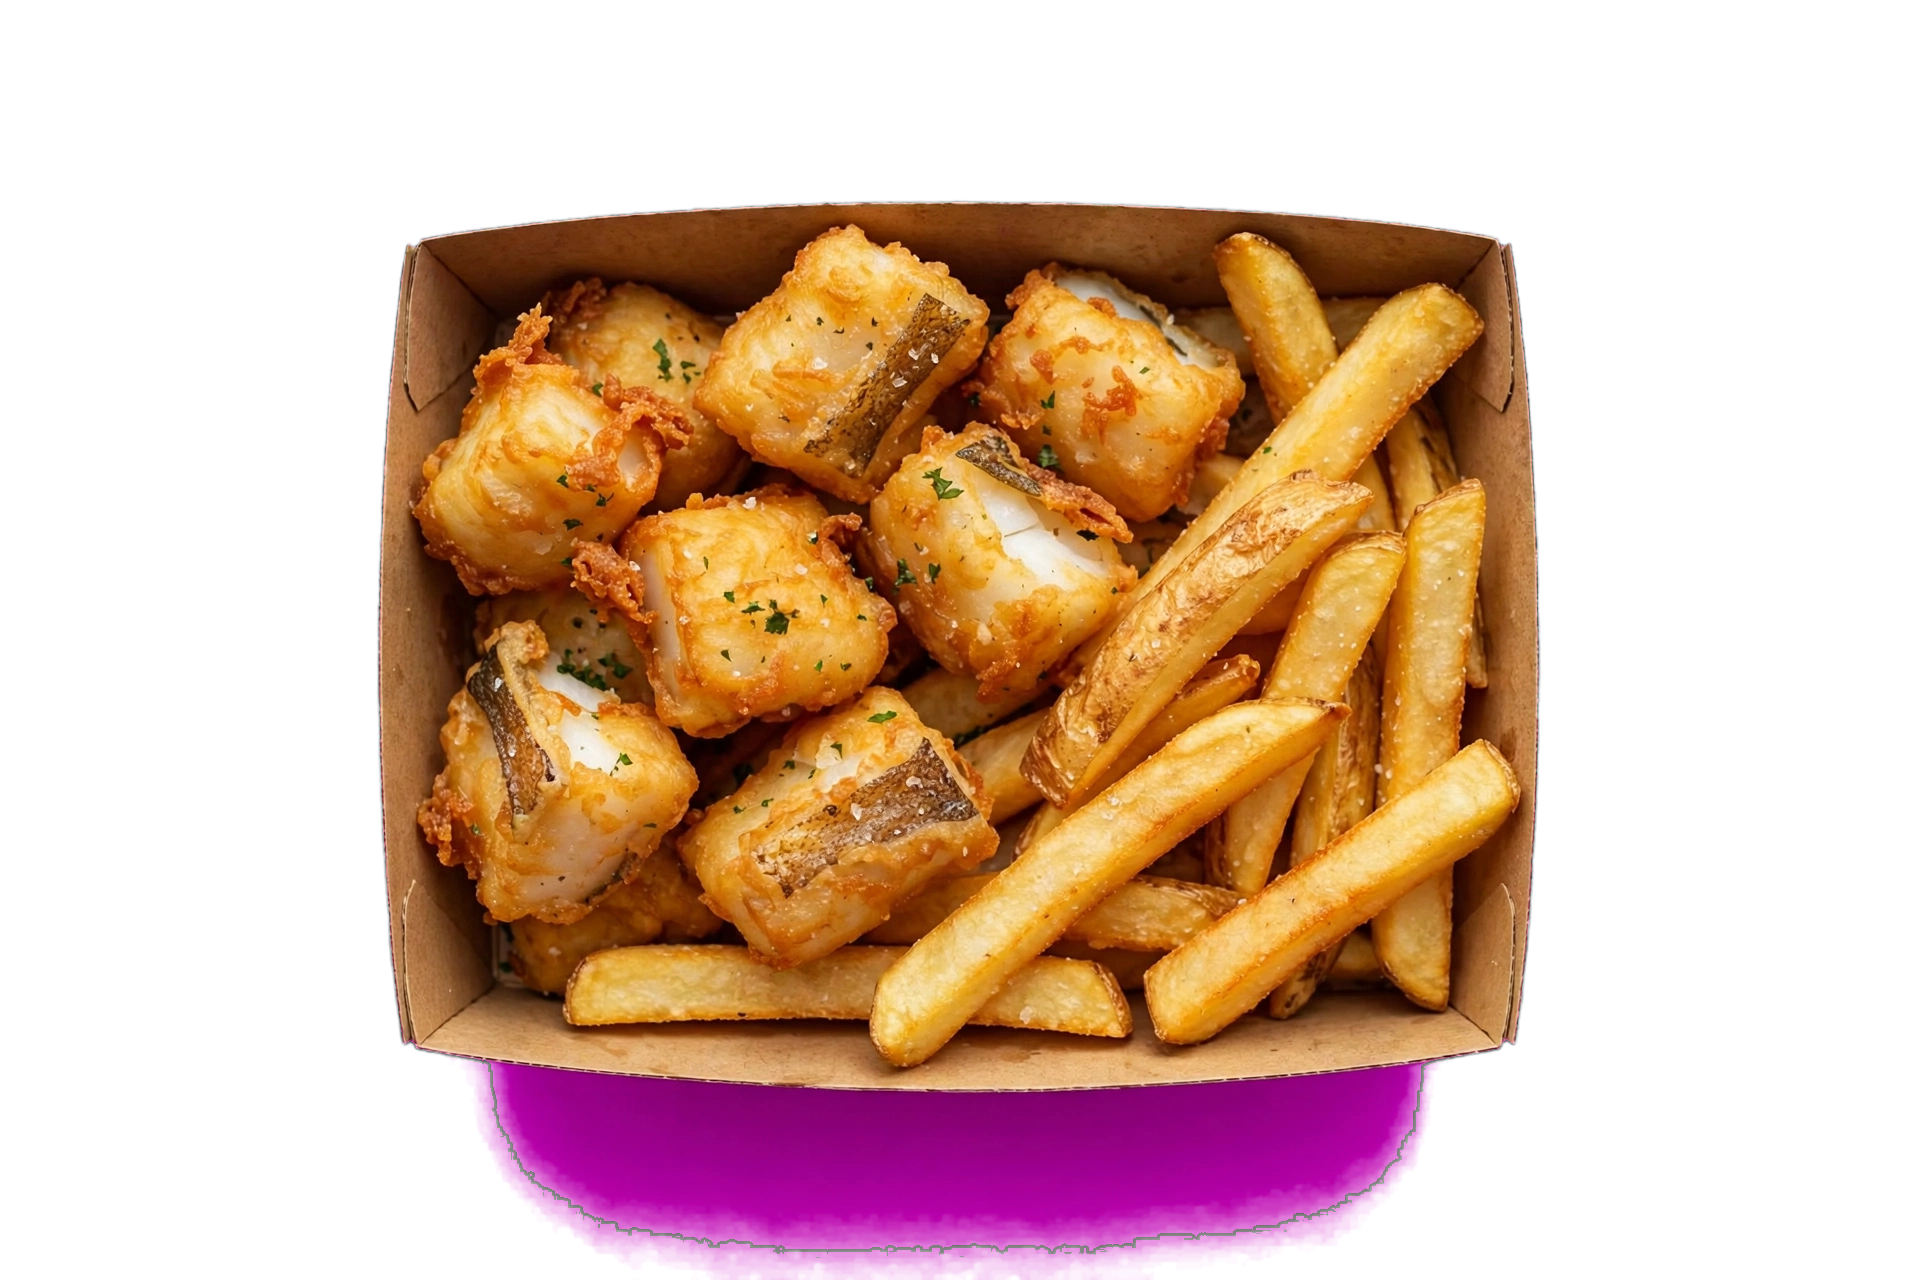
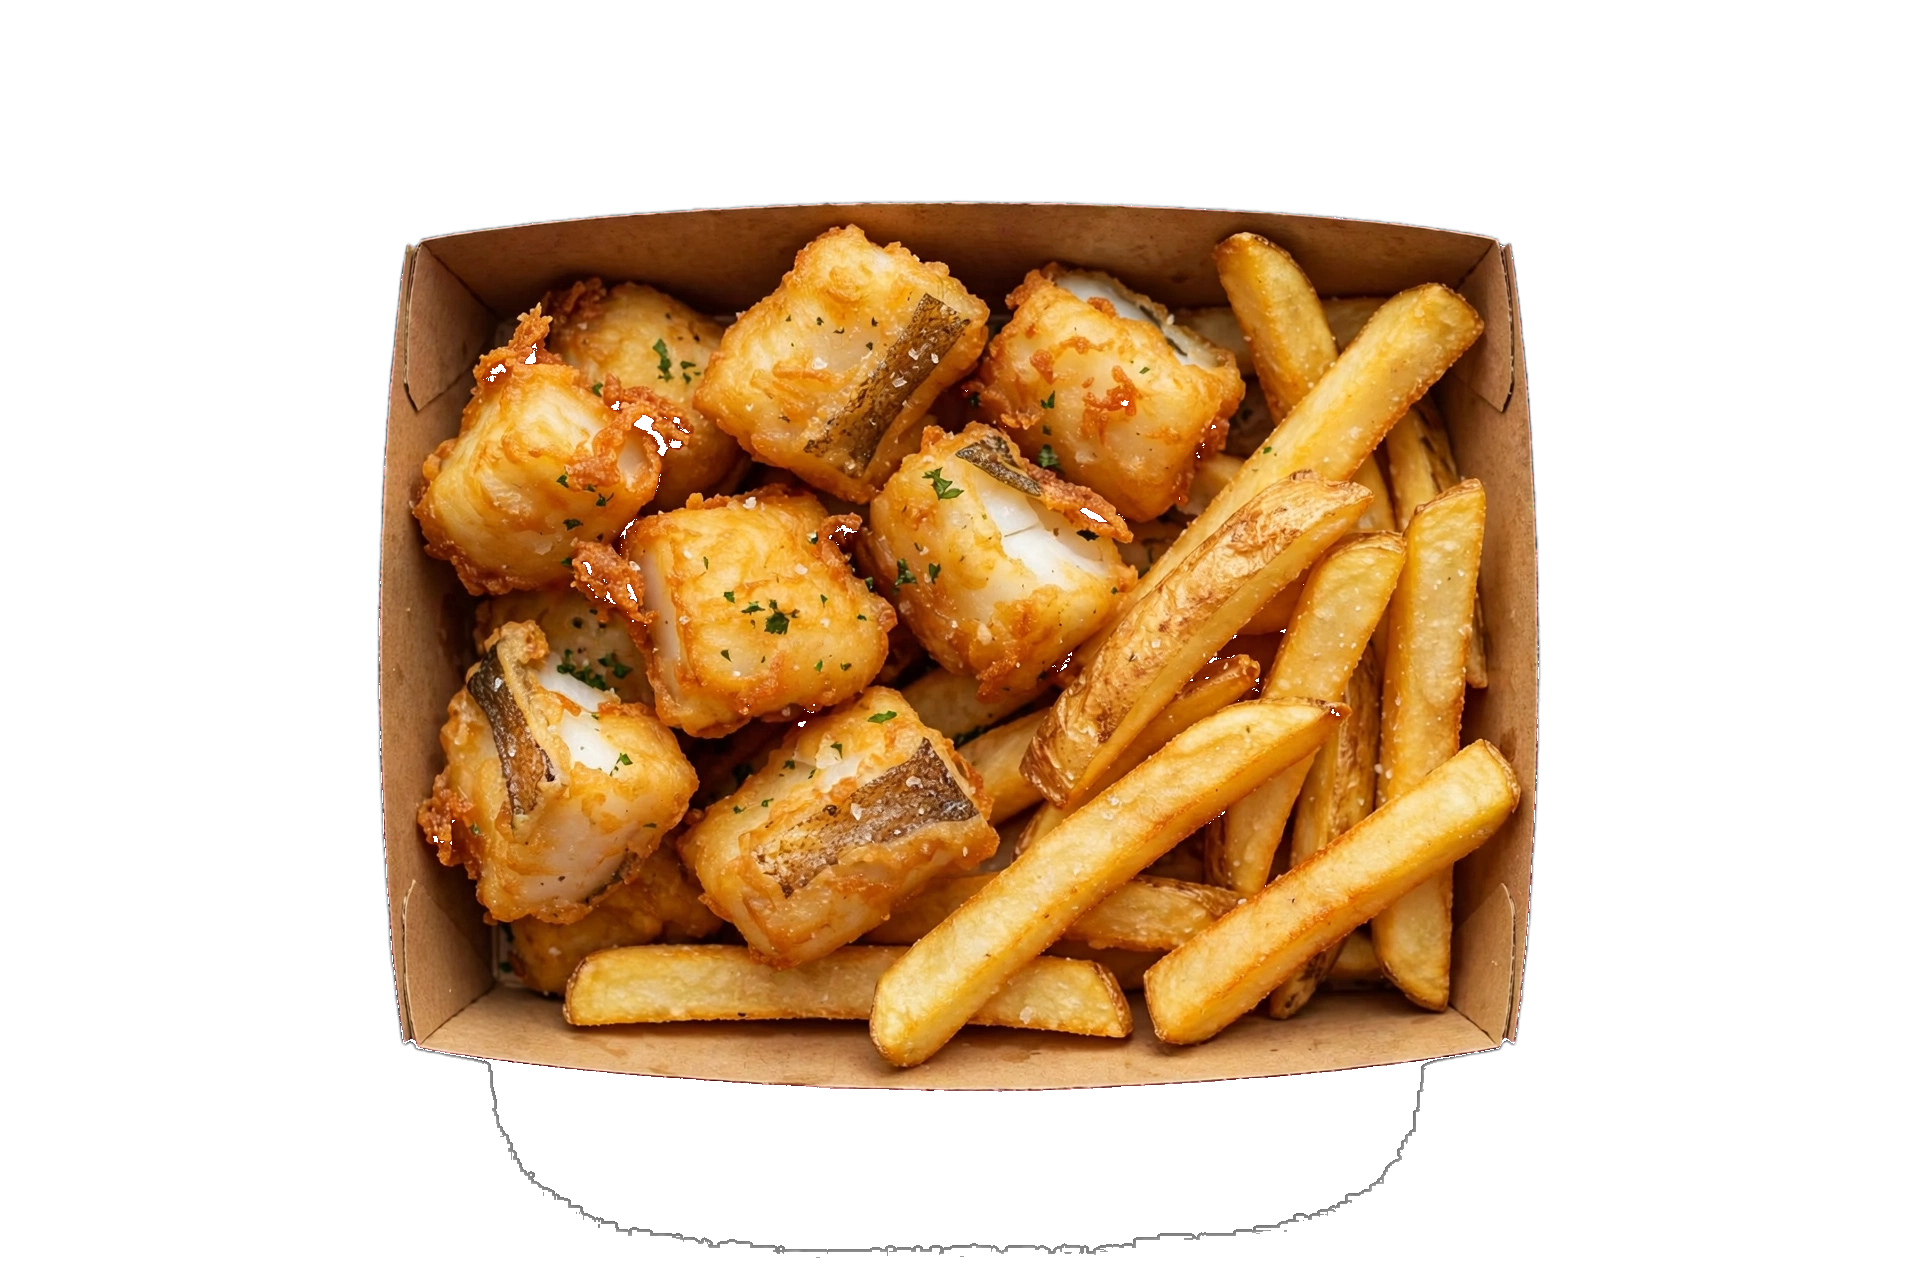
fix: remove magenta fringe from box cutouts and polish Bestsellers
The Sharing Box, Cod Bites and garlic mayo PNGs were pink-screen
cutouts with magenta haze baked into their semi-transparent edges,
which bled into the drop-shadow as a purple glow. De-fringes the three
assets (pink pixels now fully transparent, edges desaturated), swaps
the boxes to the soft grey 0 30px 80px rgba(0,0,0,0.15) shadow to
match the chowder, drops the flat SVG fork, enlarges the mayo pot,
tightens the subtitle-to-boxes spacing, raises the chowder 20px above
the sides, and renames the section to "Three Bestsellers."

🤖 Generated with Codebuff

Changed region(s): [[0.25, 0.8125, 0.75, 1.0], [0.3125, 0.3125, 0.3438, 0.3438]]

diff --git a/src/components/BoxesSection.tsx b/src/components/BoxesSection.tsx
@@ -71,20 +71,6 @@ type Scatter = {
   children: ReactNode;
 };
 
-/* Wooden fork — no asset exists, drawn inline to match the site's fork motif */
-function WoodenFork() {
-  return (
-    <svg viewBox="0 0 24 64" className="h-full w-full" aria-hidden>
-      <rect x="2" y="1" width="3.5" height="20" rx="1.75" fill="#d8c9a8" />
-      <rect x="10.25" y="1" width="3.5" height="24" rx="1.75" fill="#d8c9a8" />
-      <rect x="18.5" y="1" width="3.5" height="20" rx="1.75" fill="#d8c9a8" />
-      <path d="M1 18h22v8c0 3-2 5-5 5H6c-3 0-5-2-5-5z" fill="#c2a878" />
-      <rect x="7.5" y="30" width="9" height="30" rx="4.5" fill="#c2a878" />
-      <rect x="7.5" y="30" width="3.5" height="30" rx="1.75" fill="#d8c9a8" />
-    </svg>
-  );
-}
-
 /* ---------- Component ---------- */
 
 export default function BoxesSection() {
@@ -201,12 +187,12 @@ export default function BoxesSection() {
       ),
     },
     {
-      posCls: "left-[15%] bottom-[8%] w-12 sm:left-[20%] sm:w-14",
+      posCls: "left-[12%] bottom-[6%] w-16 sm:left-[19%] sm:w-20",
       speed: "slow",
       parallax: -40,
       orbit: 6,
       orbitDur: 5.4,
-      rotate: 14,
+      rotate: 8,
       children: (
         <NextImage
           src="/images/dish/exact_garlic_mayo.png"
@@ -216,15 +202,6 @@ export default function BoxesSection() {
           className="h-auto w-full object-contain"
         />
       ),
-    },
-    {
-      posCls: "right-[15%] bottom-[10%] w-10 sm:right-[20%] sm:w-12",
-      speed: "fast",
-      parallax: -60,
-      orbit: 7,
-      orbitDur: 3.6,
-      rotate: -32,
-      children: <WoodenFork />,
     },
   ];
 
@@ -292,7 +269,7 @@ export default function BoxesSection() {
             className="mt-6 font-serif text-[clamp(2.4rem,5vw,4rem)] leading-[1.02] font-semibold tracking-[-0.02em] text-navy-800"
           >
             <span className="block overflow-hidden pb-1">
-              <span className="line-inner block">Seven Boxes.</span>
+              <span className="line-inner block">Three Bestsellers.</span>
             </span>
             <span className="block overflow-hidden pb-1">
               <span className="line-inner block">
@@ -330,9 +307,12 @@ export default function BoxesSection() {
         </div>
 
         {/* The three big boxes — floating, never synced */}
-        <div className="mt-16 flex flex-col items-center gap-14 sm:flex-row sm:items-end sm:justify-center sm:gap-12 lg:gap-16">
+        <div className="mt-10 flex flex-col items-center gap-14 sm:flex-row sm:items-end sm:justify-center sm:gap-12 lg:gap-16">
           {boxes.map((box) => (
-            <div key={box.name} className="boxes-item">
+            <div
+              key={box.name}
+              className={box.champion ? "boxes-item sm:mb-5" : "boxes-item"}
+            >
               <motion.div
                 className="flex flex-col items-center"
                 animate={
@@ -347,18 +327,13 @@ export default function BoxesSection() {
                 }}
               >
                 <div className={`relative ${box.wCls}`}>
-                  {/* Huge soft shadow — same as the chowder bowl */}
-                  <div
-                    aria-hidden
-                    className="absolute -bottom-8 left-1/2 h-10 w-3/4 -translate-x-1/2 rounded-full bg-navy-900/10 blur-2xl"
-                  />
                   <NextImage
                     src={box.src}
                     alt={box.alt}
                     width={1920}
                     height={1280}
                     sizes="(max-width: 640px) 208px, (max-width: 1024px) 280px, 320px"
-                    className="relative h-auto w-full object-contain drop-shadow-[0_30px_40px_rgba(27,29,58,0.18)]"
+                    className="relative h-auto w-full object-contain drop-shadow-[0_30px_80px_rgba(0,0,0,0.15)]"
                   />
                 </div>
 
